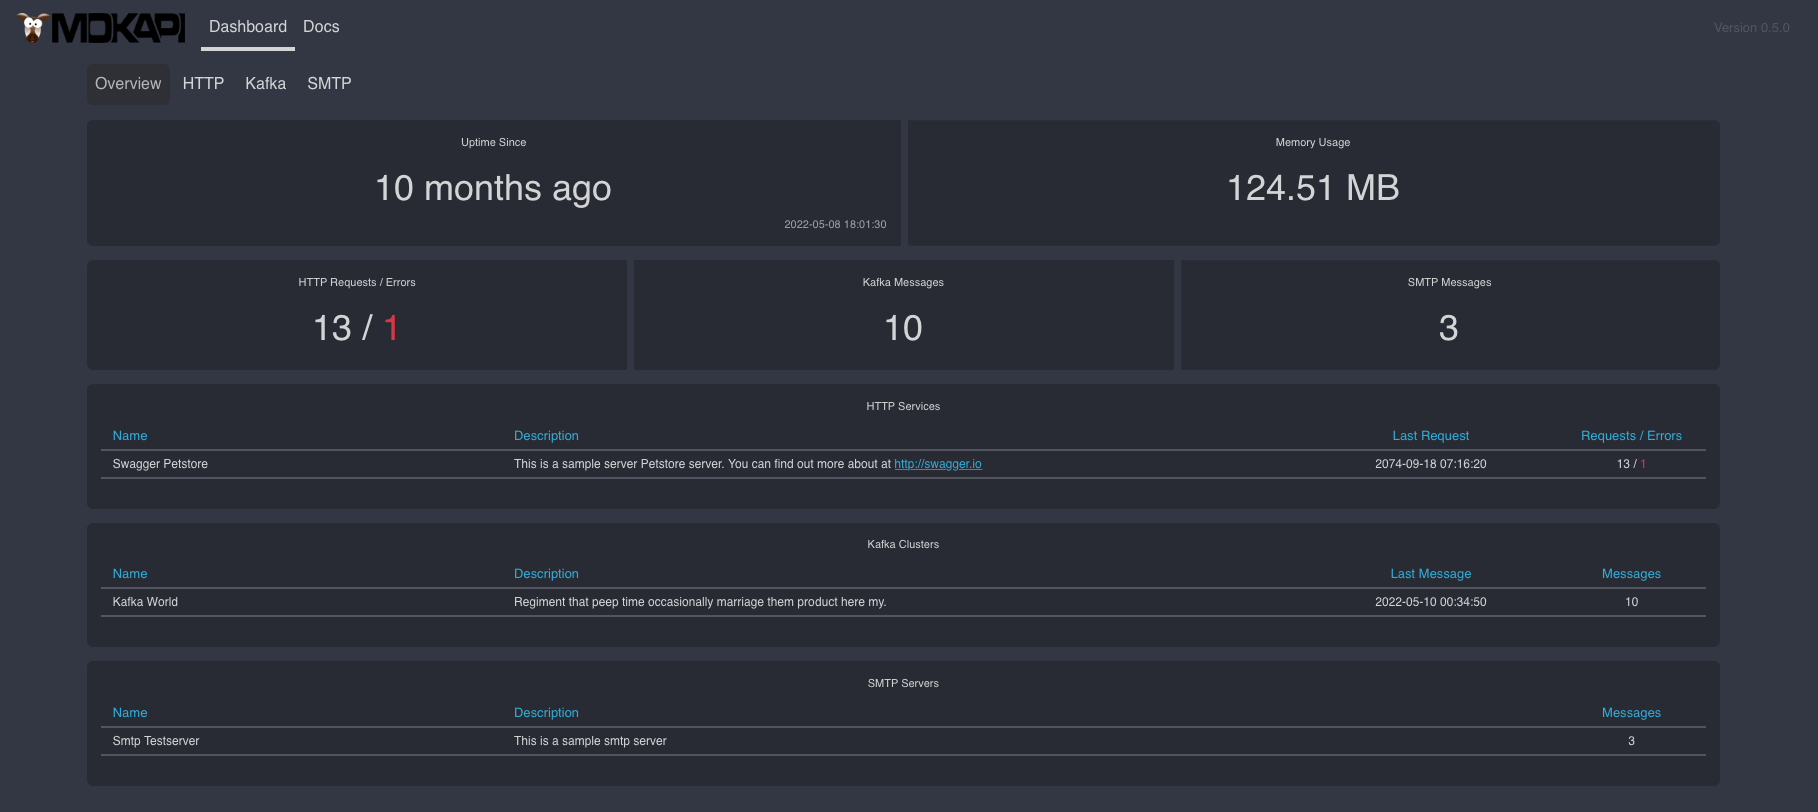
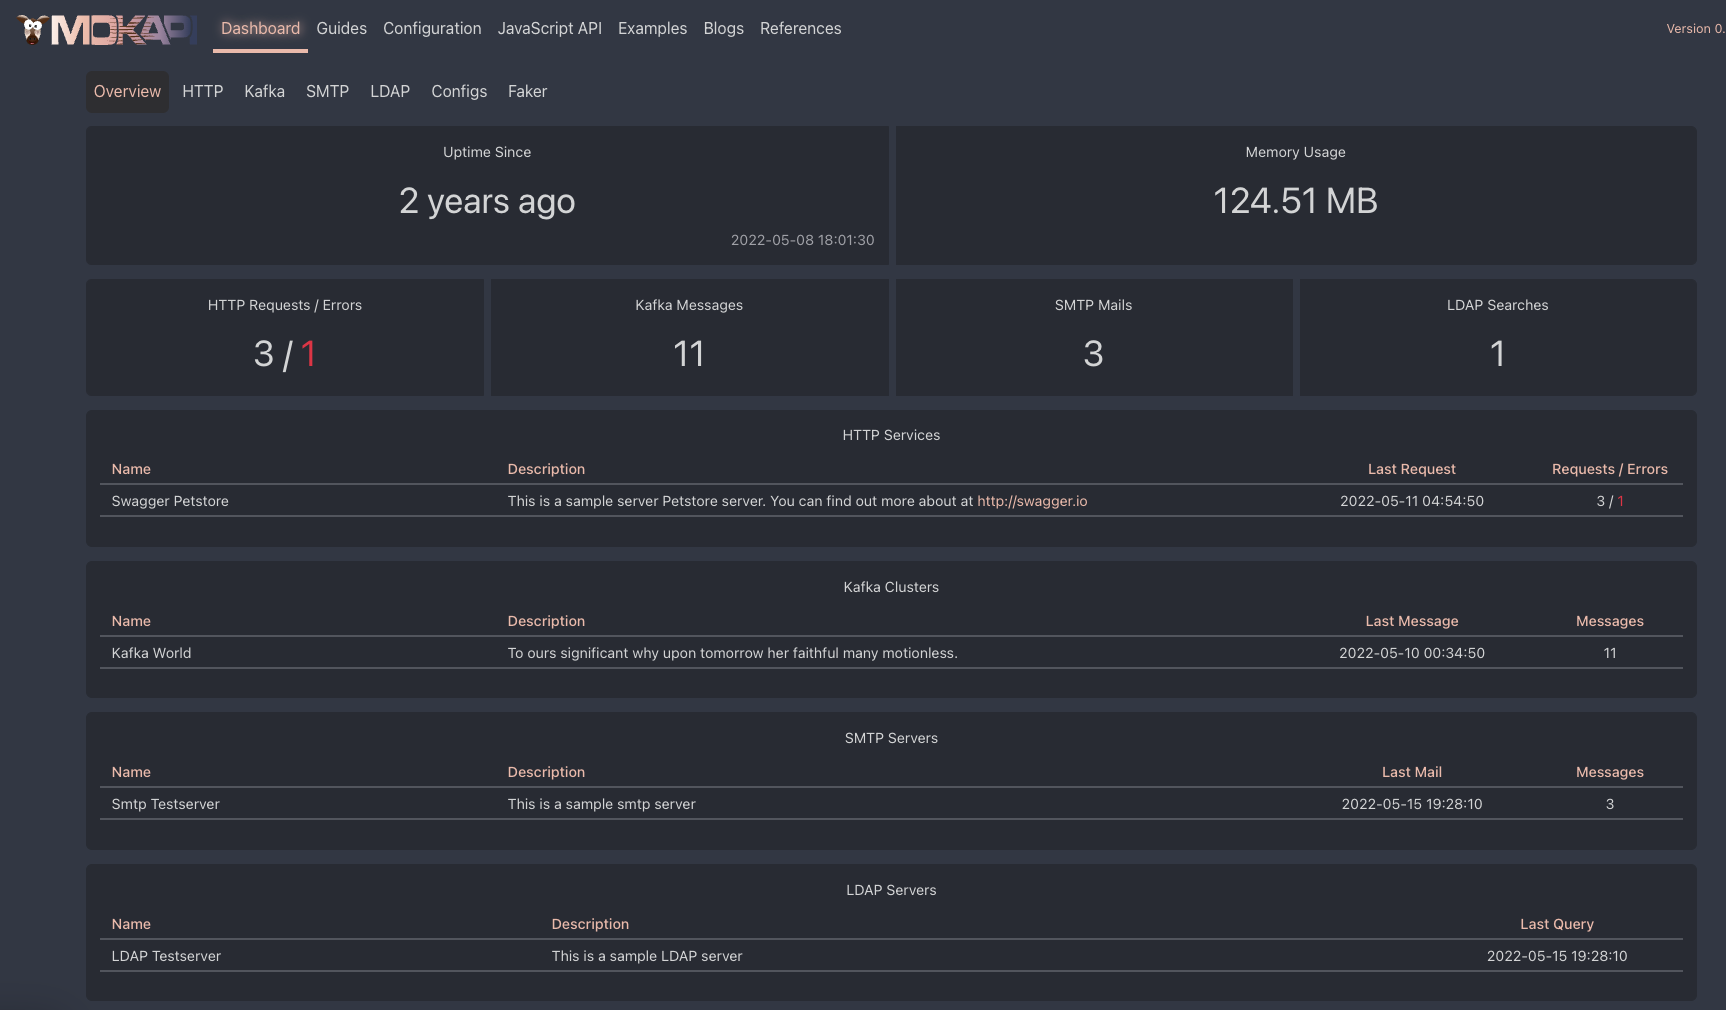
update readme and dashboard image

diff --git a/npm/README.md b/npm/README.md
@@ -35,7 +35,7 @@ Its core feature are:
 
 ## Web UI
 
-<img src="https://github.com/marle3003/mokapi/raw/v0.5.0/webui.png" alt="Mokapi Web UI" title="Mokapi Web UI" />
+<img src="https://github.com/marle3003/mokapi/raw/main/webui.png" alt="Mokapi Web UI" title="Mokapi Web UI" />
 
 ## Usage
 
@@ -51,4 +51,5 @@ npx mokapi --Providers.File.Directory=./mokapi
 - [LDAP](https://mokapi.io/docs/guides/ldap/overview)
 - [SMTP](https://mokapi.io/docs/guides/smtp/overview)
 - [Javascript API](https://mokapi.io/docs/javascript-api)
-- [Examples](https://mokapi.io/docs/examples)
+- [Examples & Tutorials](https://mokapi.io/docs/examples)
+- [Blogs](https://mokapi.io/docs/blogs)

diff --git a/README.md b/README.md
@@ -66,4 +66,5 @@ docker run --env 'MOKAPI_Services_Swagger-Petstore_Config_Url'='https://raw.gith
 - [LDAP](https://mokapi.io/docs/guides/ldap/overview)
 - [SMTP](https://mokapi.io/docs/guides/smtp/overview)
 - [Javascript API](https://mokapi.io/docs/javascript-api)
-- [Examples](https://mokapi.io/docs/examples)
+- [Examples & Tutorials](https://mokapi.io/docs/examples)
+- [Blogs](https://mokapi.io/docs/blogs)
